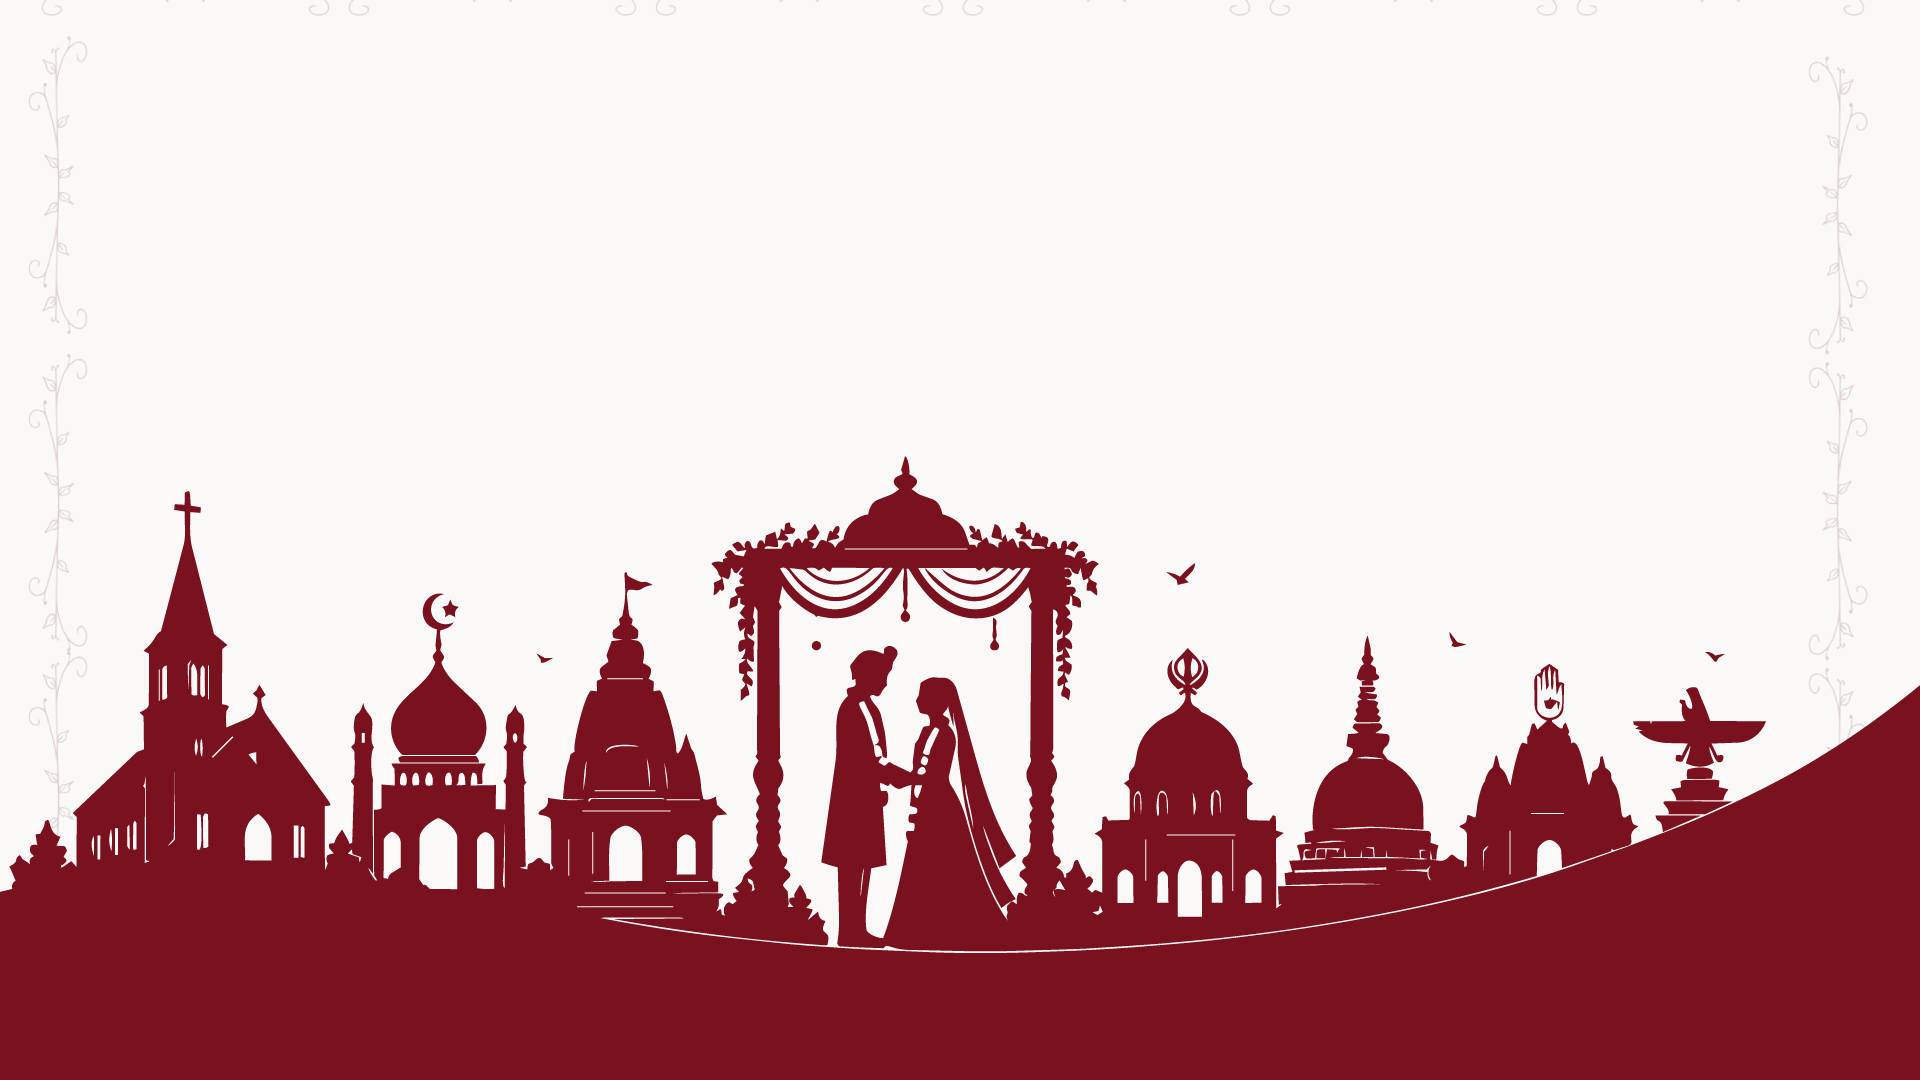
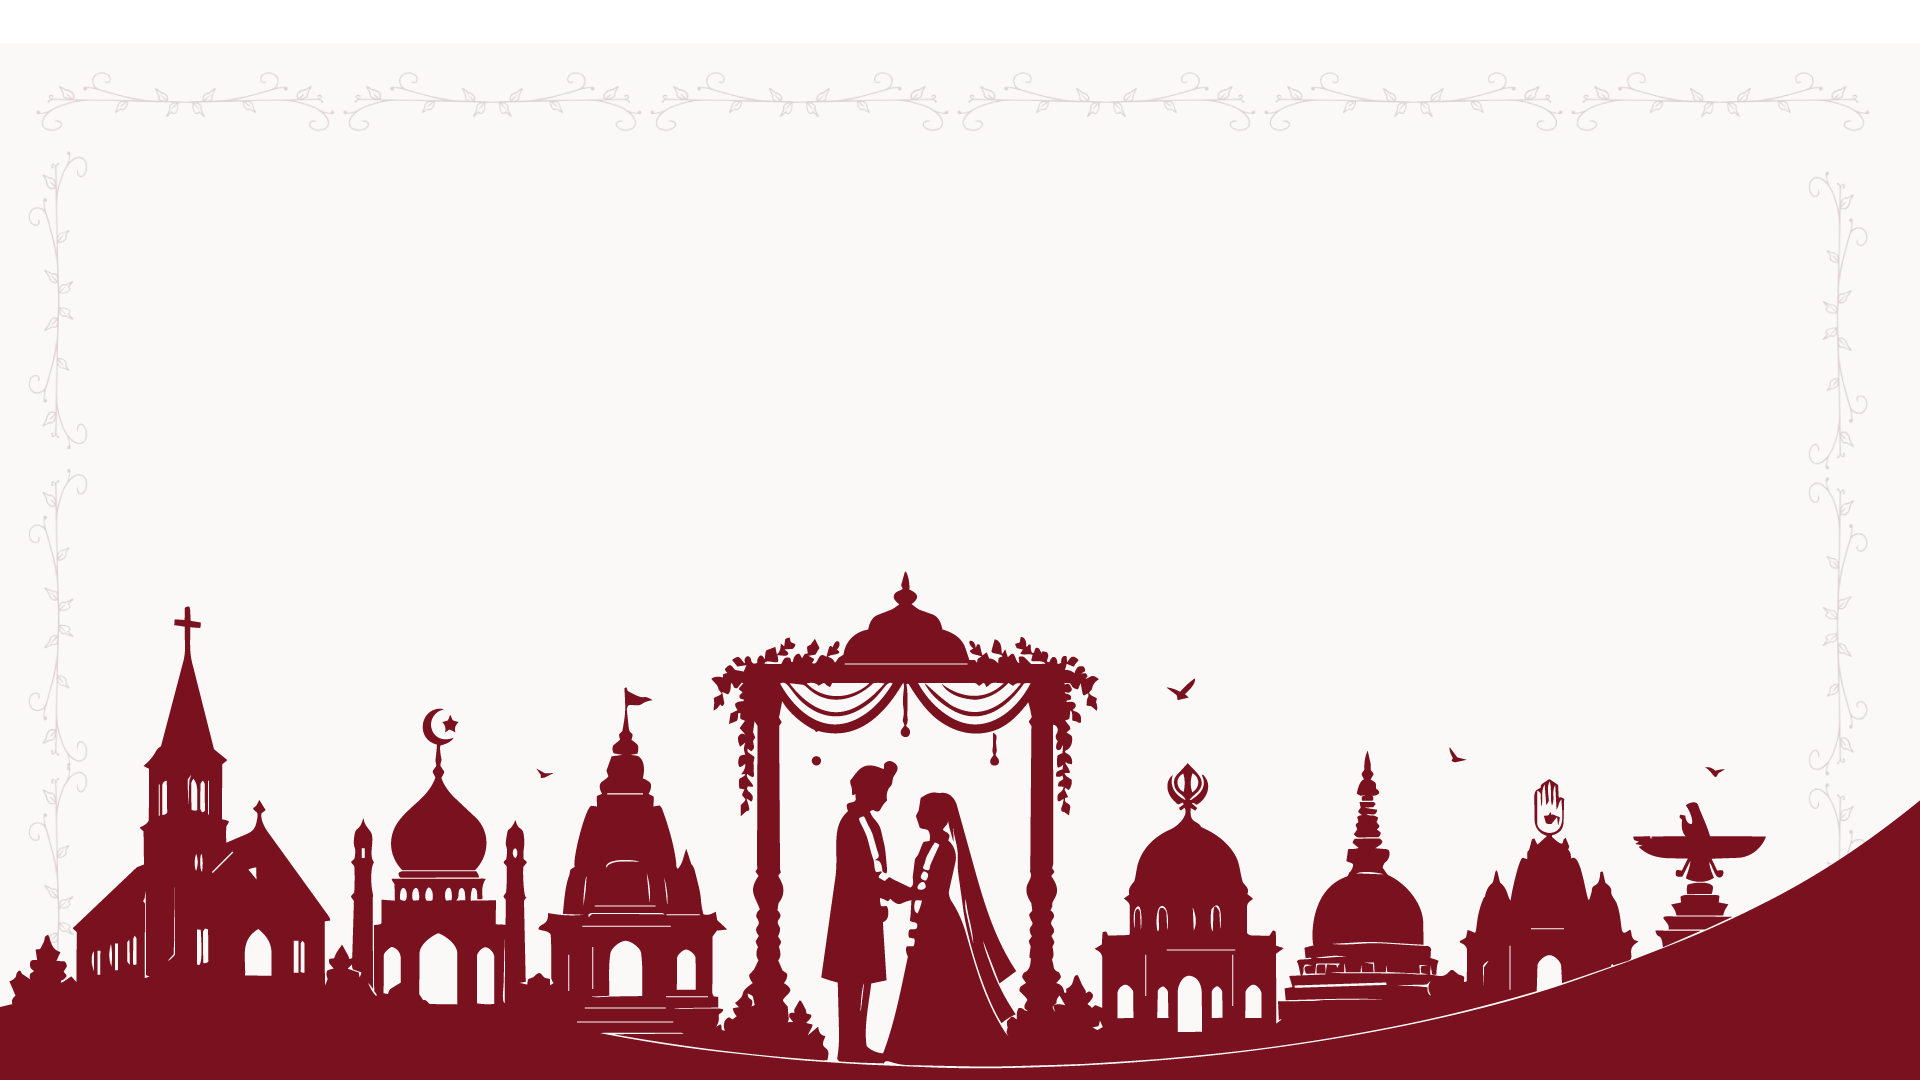
changes for beauty

Changed region(s): [[0.0, 0.4278, 1.0, 1.0], [0.5, 0.9778, 0.5625, 1.0]]

diff --git a/app/[religion]/ReligionHomePage.tsx b/app/[religion]/ReligionHomePage.tsx
@@ -18,20 +18,20 @@ const FONT_UI =
 
 /* ── DESIGN TOKENS ── */
 const T = {
-  burgundy: "#650B18",       // Primary
+  burgundy: "#650B18",
   burgundyDeep: "#4A0812",
-  cream: "#F7F0E7",          // Warm Cream
-  creamTint: "#FBF6F0",      // Cream tint (secondary button bg)
-  cardBg: "#FFFCF9",         // Warm neutral card
-  ink: "#171717",            // Secondary button text/border
+  cream: "#F7F0E7",
+  creamTint: "#FBF6F0",
+  cardBg: "#FFFCF9",
+  ink: "#171717",
   white: "#FFFFFF",
   hairline: "rgba(101,11,24,0.08)",
   hairlineStrong: "rgba(101,11,24,0.15)",
-  radiusCard: 10,            // 8–12 px band
+  radiusCard: 10,
   radiusBtn: 10,
 };
 
-/* ── LINE ICONS (rounded joins, no stock imagery) ── */
+/* ── LINE ICONS ── */
 const strokeProps = {
   fill: "none",
   stroke: "currentColor",
@@ -103,6 +103,7 @@ const Icon = {
 
 export default function ReligionHomePage({ theme }: Props) {
   const isCourtMarriage = theme.key === "court-marriage";
+  const isOther = theme.key === "other";
 
   const benefits = theme.benefits || [
     { title: "Valid Proof", text: "Gives official legal status to your marriage." },
@@ -135,14 +136,25 @@ export default function ReligionHomePage({ theme }: Props) {
   const footerBrand = theme.footerBrand || "Register my marriage";
   const footerTagline = theme.footerTagline || "India's trusted marriage registration platform";
 
-  /* Hero-specific copy — split so "Legally Yours." renders in italic serif */
-  const heroEyebrow = isCourtMarriage
-    ? "Court Marriage & Registration"
-    : "Marriage Registration";
-  const heroLine1 = isCourtMarriage ? "Your Love." : "Your Marriage.";
-  const heroLine2 = isCourtMarriage ? "Legally Yours." : "Legally Registered.";
+  /* Hero-specific copy */
+  const heroEyebrow = isOther
+    ? ""
+    : isCourtMarriage
+      ? "Court Marriage & Registration"
+      : "Marriage Registration";
 
-  /* Hero subtext — fixed tagline, not pulled from theme.description */
+  const heroLine1 = isOther
+    ? theme.heroHeading
+    : isCourtMarriage
+      ? "Your Love."
+      : "Your Marriage.";
+
+  const heroLine2 = isOther
+    ? ""
+    : isCourtMarriage
+      ? "Legally Yours."
+      : "Legally Registered.";
+
   const heroSub =
     "Hassle-free marriage registration — documents, appointments and legal support handled end to end.";
 
@@ -158,46 +170,43 @@ export default function ReligionHomePage({ theme }: Props) {
 
       {/* ───────────────── HERO ───────────────── */}
       <section className="hero">
-        {/* Background layer — banner image tinted under cream overlay */}
-        <div className="hero-bg" aria-hidden="true" />
-        {/* Soft cream-to-burgundy curve at bottom-right */}
-        <div className="hero-curve" aria-hidden="true" />
+        <div className={`hero-content${isOther ? " hero-content--minimal" : ""}`}>
+          {/* Eyebrow — hidden on `other` */}
+          {!isOther && (
+            <motion.p
+              className="hero-eyebrow"
+              initial={{ opacity: 0, y: 14 }}
+              animate={{ opacity: 1, y: 0 }}
+              transition={{ duration: 0.6 }}
+            >
+              {heroEyebrow}
+            </motion.p>
+          )}
 
-        <div className="hero-content">
-          <motion.p
-            className="hero-eyebrow"
-            initial={{ opacity: 0, y: 14 }}
-            animate={{ opacity: 1, y: 0 }}
-            transition={{ duration: 0.6 }}
-          >
-            {heroEyebrow}
-          </motion.p>
-
+          {/* Heading — single line for `other` (italic), two lines otherwise */}
           <motion.h1
             key={heroLine1 + heroLine2}
             initial={{ opacity: 0, y: 20 }}
             animate={{ opacity: 1, y: 0 }}
             transition={{ duration: 0.8, delay: 0.1 }}
           >
-            {heroLine1}
-            <br />
-            <em>{heroLine2}</em>
+            {isOther ? (
+              <em>{heroLine1}</em>
+            ) : (
+              <>
+                {heroLine1}
+                <br />
+                <em>{heroLine2}</em>
+              </>
+            )}
           </motion.h1>
 
-          <motion.p
-            className="sub"
-            initial={{ opacity: 0, y: 16 }}
-            animate={{ opacity: 1, y: 0 }}
-            transition={{ duration: 0.7, delay: 0.25 }}
-          >
-            {heroSub}
-          </motion.p>
-
+          {/* CTA buttons — shown on every page */}
           <motion.div
             className="hero-buttons"
             initial={{ opacity: 0, y: 16 }}
             animate={{ opacity: 1, y: 0 }}
-            transition={{ duration: 0.7, delay: 0.4 }}
+            transition={{ duration: 0.7, delay: isOther ? 0.25 : 0.4 }}
           >
             <Link href="/register" className="btn-primary">
               Start Registration →
@@ -207,21 +216,35 @@ export default function ReligionHomePage({ theme }: Props) {
             </Link>
           </motion.div>
 
-          <motion.ul
-            className="trust"
-            initial={{ opacity: 0 }}
-            animate={{ opacity: 1 }}
-            transition={{ duration: 0.7, delay: 0.55 }}
-          >
-            {heroTrustItems.map((item) => (
-              <li key={item}>
-                <span className="trust-tick" aria-hidden="true">
-                  <Icon.Tick size={12} />
-                </span>
-                {item}
-              </li>
-            ))}
-          </motion.ul>
+          {/* Subtext + trust — hidden on `other` */}
+          {!isOther && (
+            <>
+              <motion.p
+                className="sub"
+                initial={{ opacity: 0, y: 16 }}
+                animate={{ opacity: 1, y: 0 }}
+                transition={{ duration: 0.7, delay: 0.25 }}
+              >
+                {heroSub}
+              </motion.p>
+
+              <motion.ul
+                className="trust"
+                initial={{ opacity: 0 }}
+                animate={{ opacity: 1 }}
+                transition={{ duration: 0.7, delay: 0.55 }}
+              >
+                {heroTrustItems.map((item) => (
+                  <li key={item}>
+                    <span className="trust-tick" aria-hidden="true">
+                      <Icon.Tick size={12} />
+                    </span>
+                    {item}
+                  </li>
+                ))}
+              </motion.ul>
+            </>
+          )}
         </div>
       </section>
 
@@ -630,61 +653,26 @@ export default function ReligionHomePage({ theme }: Props) {
       <style>{`
         @import url('https://fonts.googleapis.com/css2?family=Playfair+Display:ital,wght@0,400;0,500;0,600;0,700;1,400;1,500;1,600;1,700&display=swap');
 
-        /* ── HERO SHELL ── */
+        /* ── HERO — just background image + text ── */
         .hero {
           position: relative;
-          display: grid;
-          grid-template-columns: 45% 55%;
-          align-items: center;
           min-height: 88vh;
+          display: flex;
+          align-items: center;
+          justify-content: center;
+          background-image: var(--hero-banner);
+          background-size: cover;
+          background-position: center bottom;
+          background-repeat: no-repeat;
           overflow: hidden;
-          background: #f4ece3;
           margin-top: -1px;
         }
 
-        /* Left column reserved for the visual / banner art on desktop.
-           The .hero-bg sits behind everything and shows the theme banner
-           on the left, blending into a cream field on the right. */
-        .hero-bg {
-          position: absolute;
-          inset: 0;
-          background-image:
-            linear-gradient(
-              to right,
-              rgba(244, 236, 227, 0) 0%,
-              rgba(244, 236, 227, 0.05) 30%,
-              rgba(244, 236, 227, 0.55) 52%,
-              rgba(244, 236, 227, 0.95) 65%,
-              #f4ece3 78%
-            ),
-            var(--hero-banner);
-          background-size: cover, cover;
-          background-position: center bottom, left bottom;
-          background-repeat: no-repeat, no-repeat;
-          z-index: 0;
-        }
-
-        /* Soft bottom-right burgundy curve like the reference */
-        .hero-curve {
-          position: absolute;
-          right: 0;
-          bottom: 0;
-          width: 46%;
-          height: 32%;
-          background: linear-gradient(135deg, #7c2b3a 0%, #5c1a2a 100%);
-          border-top-left-radius: 100% 100%;
-          z-index: 1;
-          pointer-events: none;
-          opacity: 0.95;
-        }
-
-        /* ── HERO CONTENT (right column) — scaled down ── */
         .hero-content {
-          grid-column: 2;
           position: relative;
-          z-index: 3;
-          padding: 0 10% 0 0;
-          max-width: 500px;
+          z-index: 2;
+          padding: 0 6% 0 0;
+          max-width: 560px;
           transform: translateY(-3%);
         }
 
@@ -717,11 +705,10 @@ export default function ReligionHomePage({ theme }: Props) {
           font-size: clamp(0.76rem, 0.88vw, 0.86rem);
           line-height: 1.55;
           color: #5b4038;
-          max-width: 380px;
+          max-width: 420px;
           margin: 0 0 1.3rem 0;
         }
 
-        /* ── BUTTONS ── */
         .hero-buttons {
           display: flex;
           gap: 0.7rem;
@@ -768,7 +755,6 @@ export default function ReligionHomePage({ theme }: Props) {
           box-shadow: 0 8px 20px rgba(107, 15, 26, 0.12);
         }
 
-        /* ── TRUST LINE WITH TICKS ── */
         .trust {
           list-style: none;
           display: flex;
@@ -795,28 +781,13 @@ export default function ReligionHomePage({ theme }: Props) {
         /* ── RESPONSIVE ── */
         @media (max-width: 900px) {
           .hero {
-            grid-template-columns: 1fr;
             min-height: 92vh;
+            justify-content: center;
             text-align: center;
-          }
-          .hero-bg {
-            background-image:
-              linear-gradient(
-                to bottom,
-                rgba(244, 236, 227, 0.55) 0%,
-                rgba(244, 236, 227, 0.92) 45%,
-                #f4ece3 70%
-              ),
-              var(--hero-banner);
-            background-position: center top, center top;
-          }
-          .hero-curve {
-            width: 70%;
-            height: 22%;
+            background-position: center top;
           }
           .hero-content {
-            grid-column: 1;
-            padding: 5rem 1.5rem 3rem;
+            padding: 3rem 1.5rem 2rem;
             max-width: 100%;
             transform: none;
           }
@@ -830,6 +801,9 @@ export default function ReligionHomePage({ theme }: Props) {
           }
           .trust {
             justify-content: center;
+          }
+          .hero-content--minimal h1 {
+            white-space: normal;
           }
           .about-grid { grid-template-columns: 1fr !important; gap: 2rem !important; }
           .step-item { justify-content: center !important; }
@@ -847,9 +821,29 @@ export default function ReligionHomePage({ theme }: Props) {
           .step-marker { display: block !important; }
           .desktop-vertical-line { display: block !important; }
         }
+
+        /* ── other page only — CTA positioning ── */
+        .hero-content--minimal h1 {
+          white-space: nowrap;
+          font-size: clamp(1.8rem, 3.4vw, 3rem);
+          margin-bottom: 0;
+          font-family: 'Playfair Display', 'Times New Roman', serif;
+          font-weight: 700;
+        }
+
+        .hero-content--minimal .hero-buttons {
+          justify-content: center;
+          margin-top: 1.5rem;
+          margin-left: 180px;
+        }
+
+        .hero-content--minimal {
+          margin-bottom: 300px;
+          margin-left: -100px;
+        }
       `}</style>
 
-      {/* Bind the theme banner image into a CSS variable so .hero-bg can use it */}
+      {/* Bind the theme banner image into a CSS variable so .hero can use it */}
       <style>{`
         .hero { --hero-banner: url(${theme.bannerImage}); }
       `}</style>

diff --git a/app/page.tsx b/app/page.tsx
@@ -12,9 +12,9 @@ import { useAuth } from "./context/AuthContext";
 
 /* ── BRAND FONT STACKS ── */
 const FONT_DISPLAY =
-  "'Coolvetica', 'Helvetica Neue', 'Arial Narrow', Arial, sans-serif";
+  "'Playfair Display', 'Times New Roman', serif"; /* ← heading font */
 const FONT_UI =
-  "'Inter', 'Helvetica Neue', Arial, system-ui, -apple-system, sans-serif";
+  "'Inter', 'Helvetica Neue', Arial, system-ui, -apple-system, sans-serif"; /* ← body font */
 
 export default function HomePage() {
   const router = useRouter();
@@ -35,6 +35,11 @@ export default function HomePage() {
 
   return (
     <>
+      {/* Playfair Display import — same as religion pages */}
+      <style>{`
+        @import url('https://fonts.googleapis.com/css2?family=Playfair+Display:ital,wght@0,400;0,500;0,600;0,700;1,400;1,500;1,600;1,700&display=swap');
+      `}</style>
+
       <main
         style={{
           minHeight: "100vh",
@@ -140,6 +145,7 @@ export default function HomePage() {
                   letterSpacing: "-0.01em",
                   marginBottom: "0.5rem",
                   fontFamily: FONT_DISPLAY,
+                  fontWeight: 700,
                 }}
               >
                 Select Your Religion
@@ -237,6 +243,7 @@ export default function HomePage() {
                             : colors.darkText,
                         marginBottom: 2,
                         fontFamily: FONT_DISPLAY,
+                        fontWeight: 700,
                         transition: "color 0.25s",
                       }}
                     >
